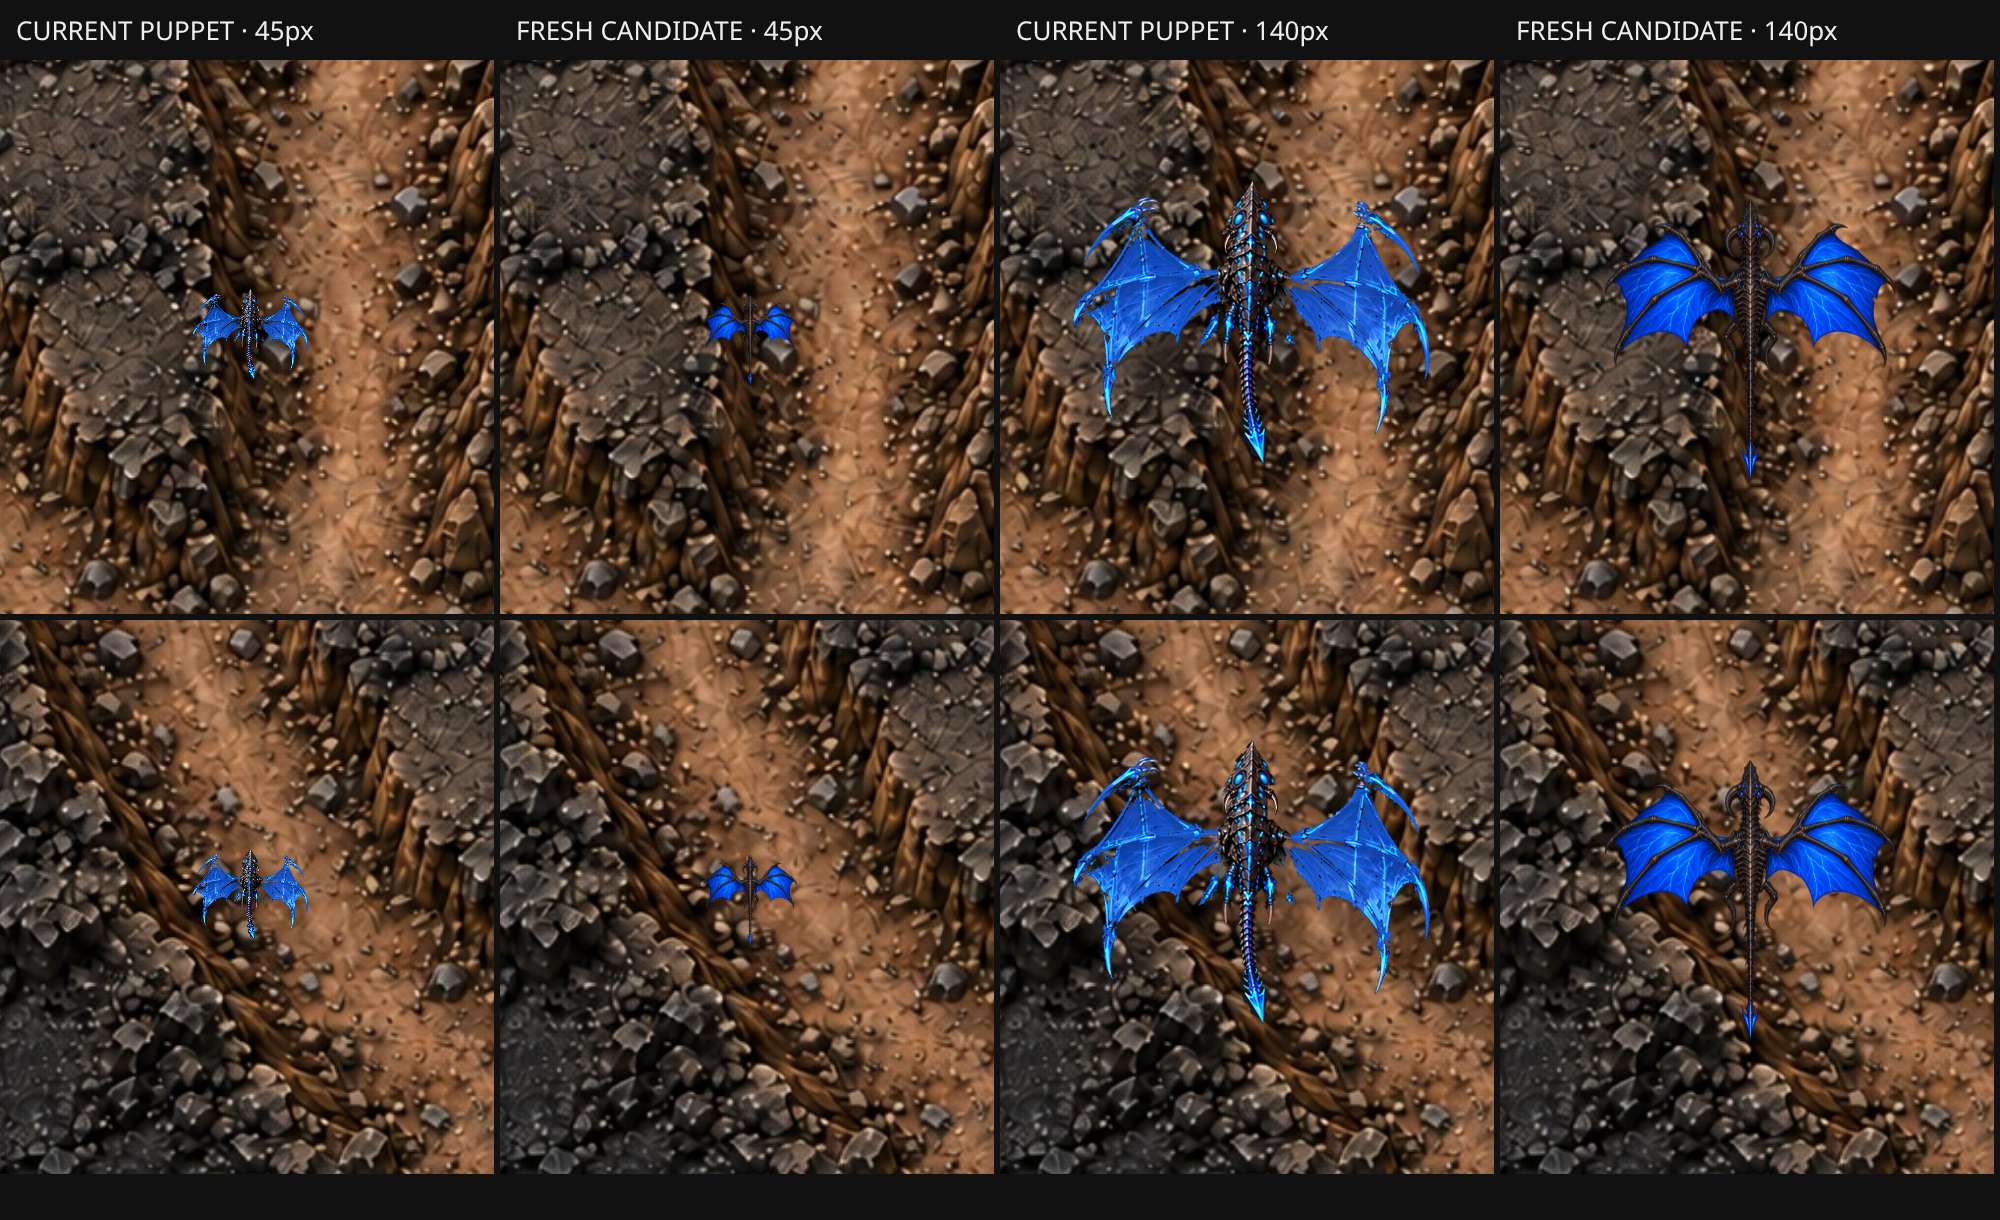
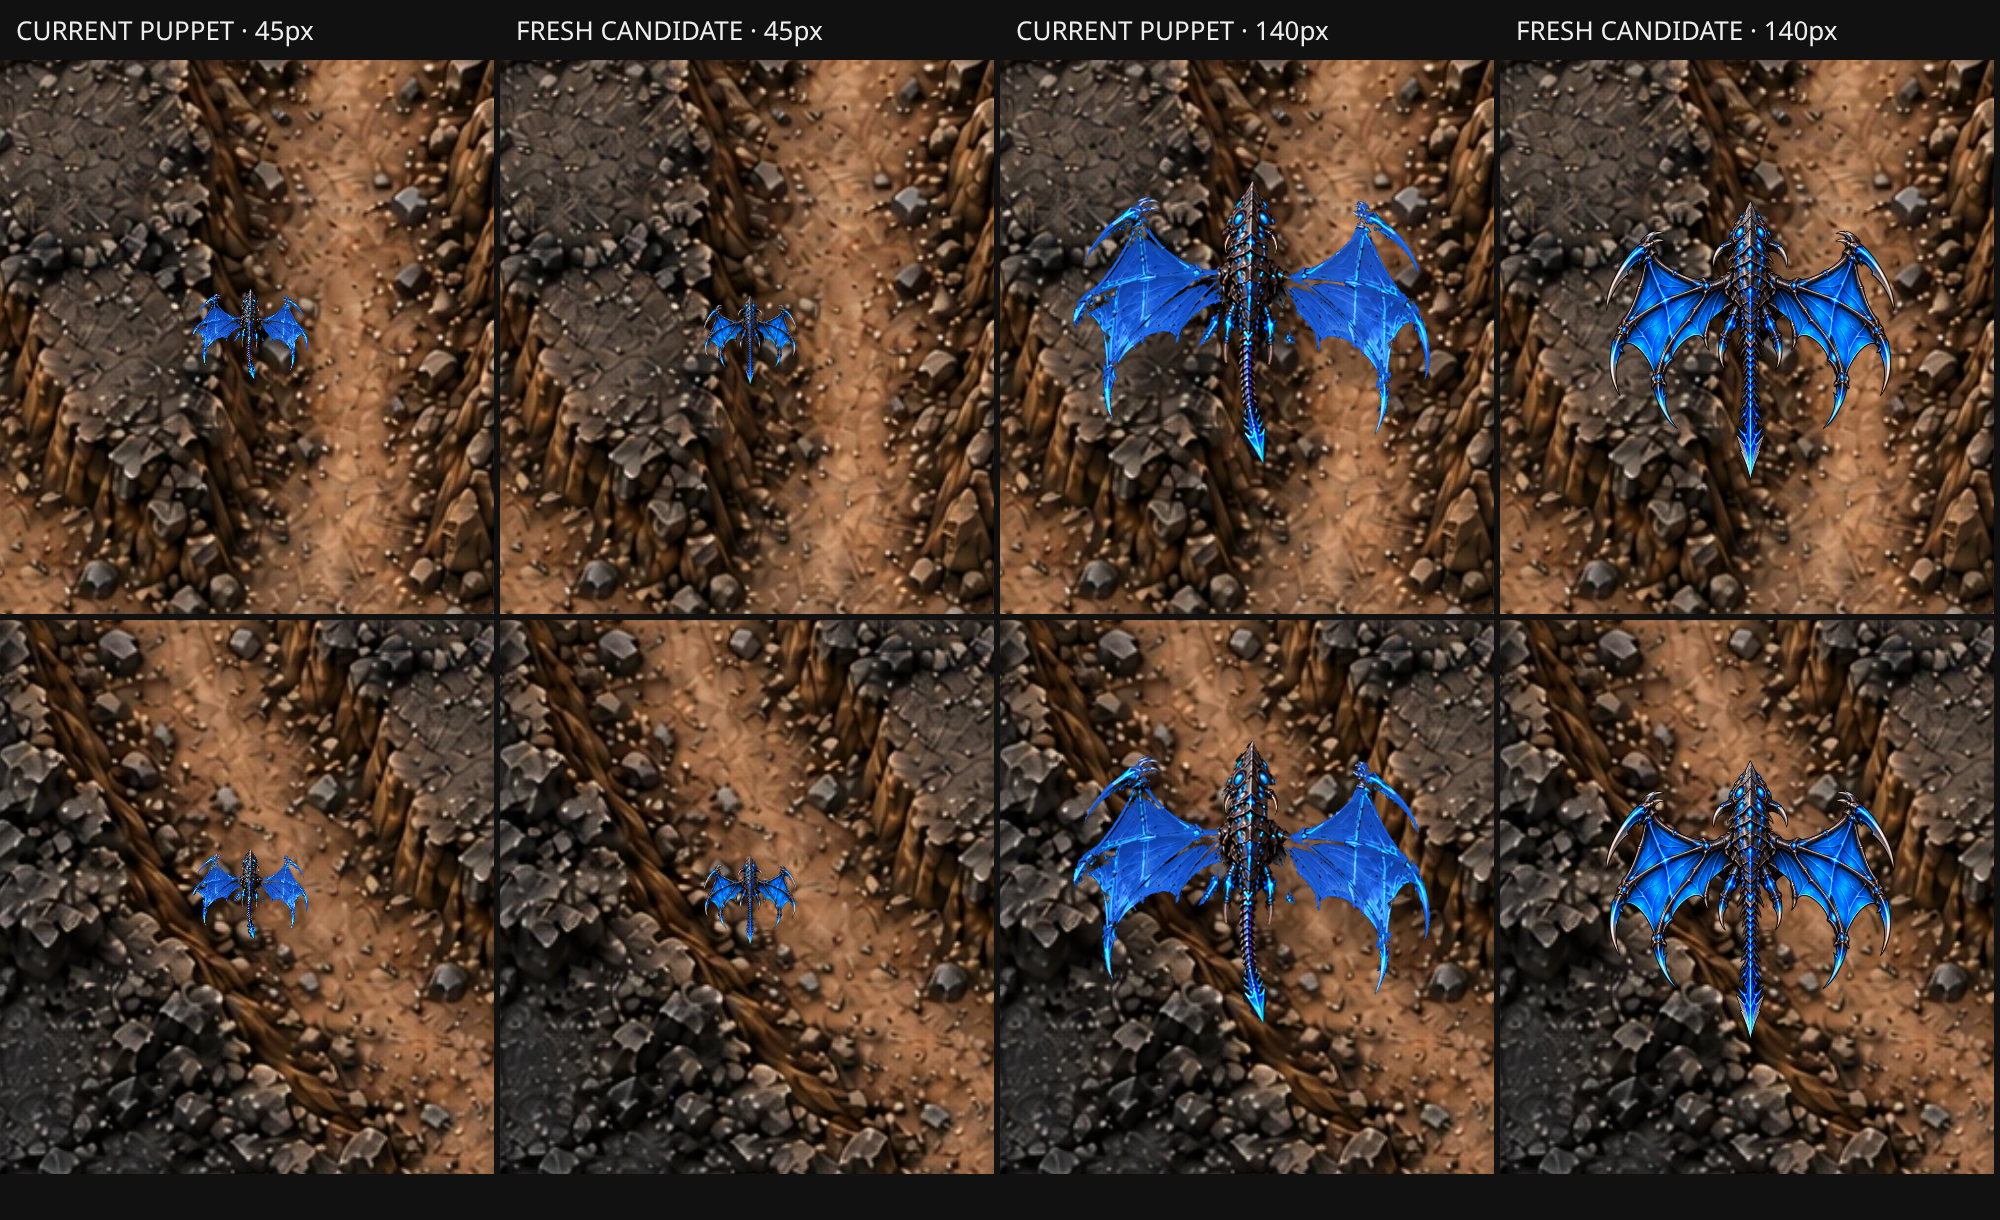
Regenerate Glider using original roster style and metallic blue palette

diff --git a/docs/towerdefense/concept/codex/glider-redesign/NOTES.md b/docs/towerdefense/concept/codex/glider-redesign/NOTES.md
@@ -1,18 +1,17 @@
-# Fresh Glider candidate
+# Roster-referenced Glider candidate
 
-Generated from scratch with OpenAI `image_gen.imagegen` (model ID not exposed): dark biomechanical body, matched skull horns, broad saturated electric-blue membranes, three bone fingers per wing, blue veins and bladed tail. The existing rig did not constrain this design.
-This is a transparent, **unsegmented design candidate**, not a replacement puppet: glow is baked into the single image, and no manifest, pivots or animation are supplied. Existing Glider puppet and Skitter art are retained. No game code changed.
-ImageMagick normalizes the generated square image into a padded 640×640 candidate and supplies the plain-ground preview.
-Comparison uses the game's actual `/td/environment/background.webp`, existing `dev/td-rig.ts` for the current puppet, Chromium deviceScaleFactor=2 and nominal head-to-tail lengths of 45px and 140px. Candidate scale comes from its actual opaque bounds; no tint, outline or underglow aid. Two rows sample tan floor and dark rock. No page/load errors.
-The new wing panels are cleaner and continuous. Their blue stands apart from both surfaces; the body and tail remain dark at 45px. Compared with the puppet, this candidate has a longer-looking tail and fewer bright vein accents. Its static pose also differs from the animated puppet's 0.3s pose; the screenshot compares designs, not identical animation frames.
-Current puppet polish is recorded in `../glider-parts/NOTES.md`: corrected metallic membrane patches, a matching horn pair and 168 passing joint checks. Those checks do not apply to this unrigged candidate.
-Reproduce preview: `npm run dev -- --port 5173`, then `node docs/towerdefense/concept/codex/glider-redesign/capture-candidate.mjs`; requires installed playwright-core and `/usr/bin/chromium`.
+Generated anew with OpenAI `image_gen.imagegen` (model ID not exposed), using `../puppet-tools/roster-source.png` as the actual input reference. Replaces the previous brown-bodied candidate in this folder. Original roster Glider anatomy/style: glossy dark metallic chitin, silver-edged armor and finger bones, paired skull horns, original electric-blue eyes/seams, broad consistently blue wing panels and barbed tail.
+The blue membranes replace the original grey/beige wing panels while preserving the roster's metallic accents. This is a transparent **unsegmented design candidate**: glow is baked into the image, with no manifest, pivots or animation supplied. The existing puppet and Skitter are unchanged. No game code changed.
+ImageMagick normalizes the raw generated image into a padded 640×640 candidate and builds the plain-ground preview. `roster-style-check.png` places the original eight-creature sheet beside the new candidate for direct family/style comparison.
+Map comparison uses the game's actual `/td/environment/background.webp`, existing `dev/td-rig.ts` for the current puppet, Chromium deviceScaleFactor=2 and nominal head-to-tail lengths of 45px and 140px. Candidate scale uses its actual opaque bounds. No tint, outline or underglow aids; zero page/load errors. Rows sample tan floor and dark rock.
+The saturated blue panels and silver accents read on both surfaces at45px. The new candidate's static pose differs from the animated puppet's0.3s pose; this is a design comparison rather than identical animation frames. Prior puppet joint-test results do not apply to this unrigged image.
+Reproduce browser preview with existing `capture-candidate.mjs`: run `npm run dev -- --port 5173`, then `node docs/towerdefense/concept/codex/glider-redesign/capture-candidate.mjs`; requires installed playwright-core and `/usr/bin/chromium`.
 
-Files actually produced:
-- `source-raw.png` — original generated transparent image.
-- `candidate.png` — normalized 640×640 transparent candidate.
-- `candidate-ground.png` — candidate on #211d19 for inspection.
-- `capture-candidate.mjs` — browser comparison script.
-- `map-comparison-2x.png` — current puppet versus fresh candidate on both map surfaces, at 45px and 140px.
+Files actually produced or refreshed in this pass:
+- `source-raw.png` — new transparent generated image, with roster as input reference.
+- `candidate.png` — normalized640×640 transparent candidate.
+- `candidate-ground.png` — candidate on#211d19 for inspection.
+- `roster-style-check.png` — original roster beside the new metallic-blue Glider.
+- `map-comparison-2x.png` — current puppet versus new candidate on both map surfaces at45px and140px.
 - `preview-validation.json` — scale, bounds, background, candidate status and browser errors.
 - `NOTES.md` — this report.
